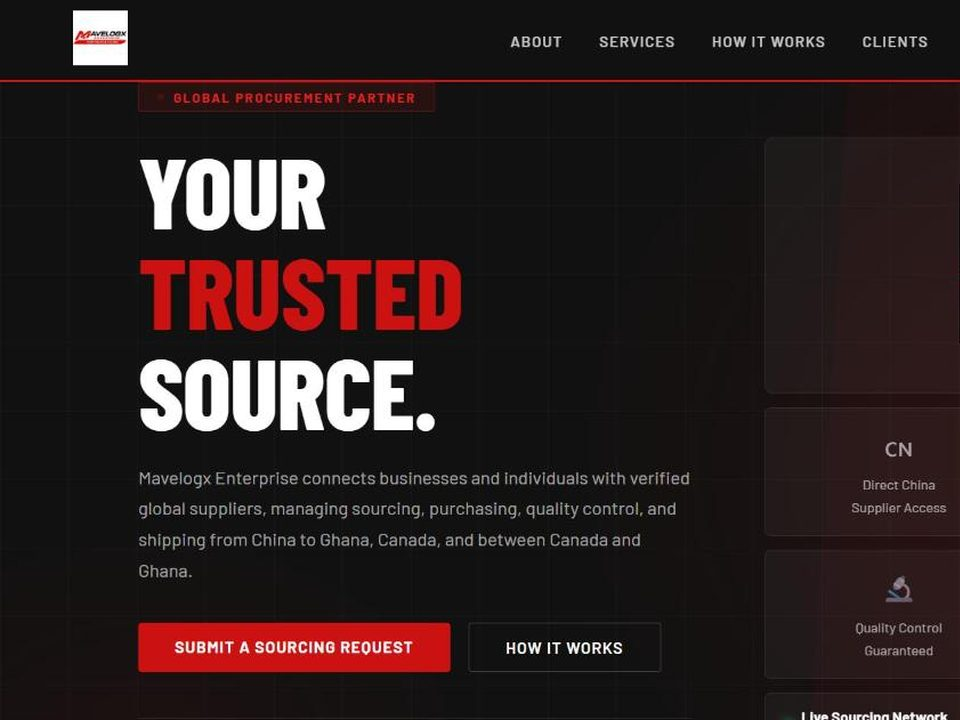
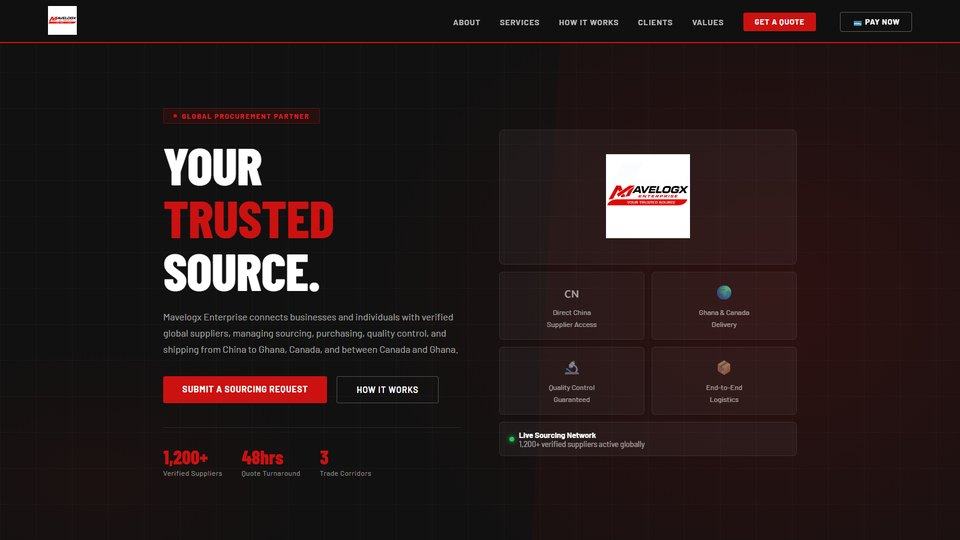
Mavelogx Enterprise: block 08, six captures
Hero and card srcset regenerated from the clean homepage capture,
cropped 1600x1000 to 16:9 off the foot to match the ratio the template
hard-codes.

Six section captures rather than a full-page one. The supplied
full-page capture has large blank bands through the middle where
scroll-triggered sections never fired during the scroll, so it would
have shown an empty site. The sections it missed are all present here
as individual captures instead.

The set follows the buyer: the homepage on a phone, the sourcing
request on desktop and phone, the six-stage process, the service grid
and the company panel. For a procurement business the product is
trust, so the process and the company facts earn their place over
decoration.

Claude-Session: https://claude.ai/code/session_01Qdrer2qq7nNfJBYZv1UTqo

diff --git a/src/content/work/mavelogx-enterprise.md b/src/content/work/mavelogx-enterprise.md
@@ -13,6 +13,43 @@ lead: >
   Mavelogx Enterprise connects businesses to verified suppliers from China to Ghana and Canada.
   The problem a procurement site solves is not persuasion but trust. A buyer sending money
   abroad needs to know what happens, in what order, and who is accountable at each step.
+shots:
+  - src: /img/mavelogx-enterprise-home-mobile-780.webp
+    w: 780
+    h: 1688
+    device: mobile
+    alt: The Mavelogx Enterprise homepage on a phone, Your Trusted Source stacked above the sourcing request button and three figures for suppliers, quote turnaround and trade corridors
+    caption: The homepage on a phone. The claim, the action, then three numbers that say what kind of operation this is.
+  - src: /img/mavelogx-enterprise-request-1200.webp
+    w: 1200
+    h: 750
+    device: desktop
+    alt: The sourcing request page, contact details and a WhatsApp option on the left beside a structured form covering contact, product, specifications and order terms
+    caption: The sourcing request. Contact, product, specifications, then quantity, destination and timeline. Everything needed to quote, asked once.
+  - src: /img/mavelogx-enterprise-request-mobile-780.webp
+    w: 780
+    h: 1688
+    device: mobile
+    alt: The sourcing request form on a phone, fields for name, business email, WhatsApp, country and company stacked full width
+    caption: The same form on a phone, where a buyer sourcing from a warehouse is most likely to fill it in.
+  - src: /img/mavelogx-enterprise-process-1200.webp
+    w: 1200
+    h: 750
+    device: desktop
+    alt: The how it works section, six numbered stages from submit brief through supplier match, quote, negotiation, production and delivery, above a red band of three figures
+    caption: Six stages, named and numbered. A buyer sending money abroad needs to know what happens next and who is accountable at each step.
+  - src: /img/mavelogx-enterprise-services-1200.webp
+    w: 1200
+    h: 750
+    device: desktop
+    alt: The core services grid, six cards covering product sourcing, purchasing management, shipping and freight, supply chain optimisation, procurement consulting and quality assurance
+    caption: The service set, on light to break the dark rhythm of the operational sections.
+  - src: /img/mavelogx-enterprise-about-1200.webp
+    w: 1200
+    h: 750
+    device: desktop
+    alt: The about section, three paragraphs and vision and mission cards beside a panel listing industry, core focus, key markets, client base, supplier network, tagline and quote turnaround
+    caption: The company at a glance. Prose on the left, and on the right the facts a buyer checks before sending a brief.
 decisions:
   - title: Lead with the promise, prove it immediately beside it
     body: >
@@ -34,6 +71,5 @@ pending:
   - "05 The challenge: what was in place before, and its cost"
   - "06 Strategy and direction: the central insight, and what you rejected"
   - "07 Identity and design system: logo rules, palette values, type specimen"
-  - "08 The build: four or more screenshots. Full-page desktop, mobile, sourcing flow, quote form."
   - "10 Outcome: what changed, evidenced only"
 ---
